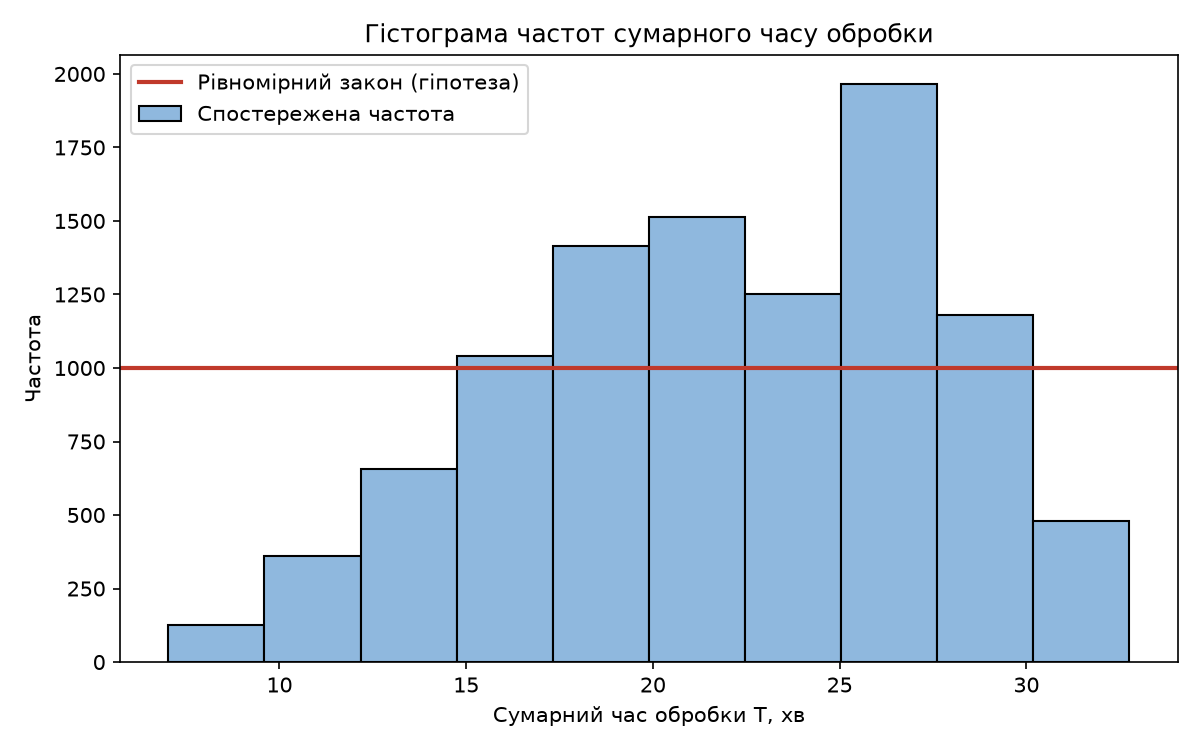
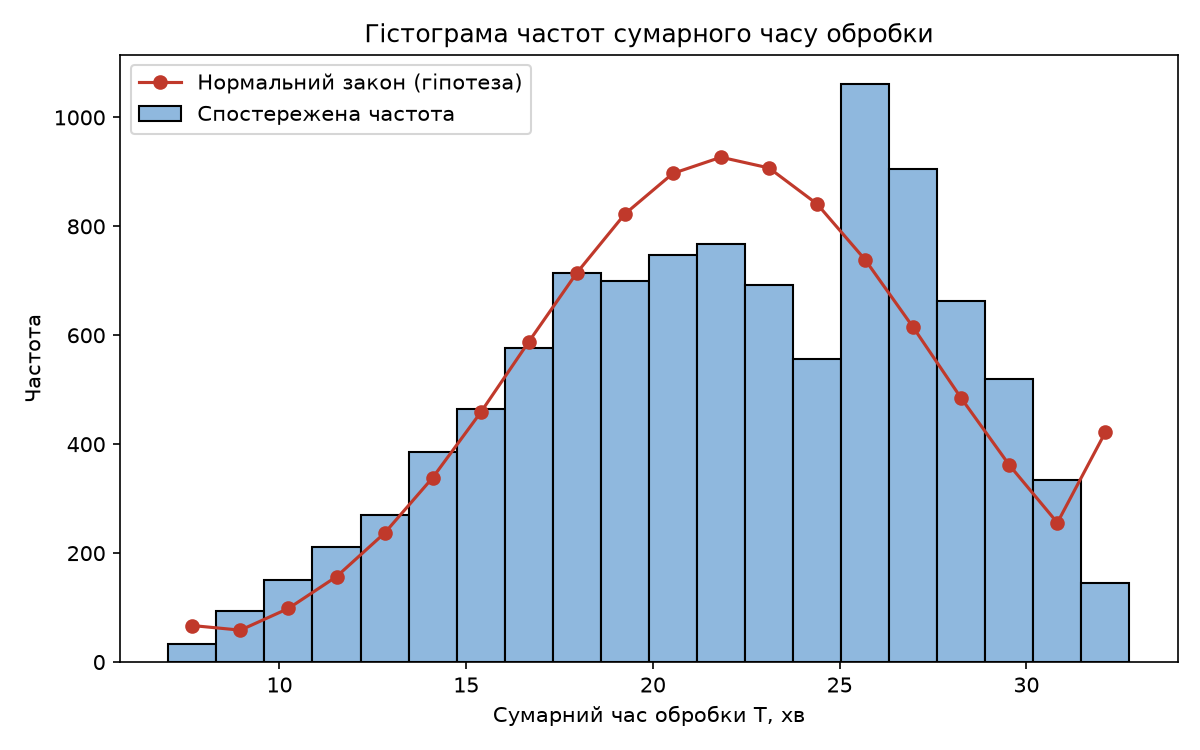
fix

diff --git a/verification.py b/verification.py
@@ -6,8 +6,8 @@ import main
 PROTOCOL_M = (1, 1)
 PROTOCOL_SEED = 10
 PROTOCOL_TIME = 150.0
-PROTOCOL_LINES = 50
-TIME = 20000.0
+PROTOCOL_EVENTS = 14
+TIME = 100000.0
 NAMES = {"Cementation": "Цементація", "Hardening": "Загартування"}
 ACTIONS = {
     "Exit": "вихід",
@@ -16,20 +16,26 @@ ACTIONS = {
 }
 
 PAIRS = [
+    ((10, 7), (10, 6)),
+    ((13, 7), (13, 6)),
+    ((10, 3), (10, 2)),
     ((10, 0), (10, 0)),
     ((15, 0), (15, 0)),
     ((8, 0), (8, 0)),
-    ((10, 3), (10, 2)),
-    ((10, 7), (10, 6)),
-    ((13, 7), (13, 6)),
 ]
 DEVICES = [1, 2, 3]
 
 
+def law(parameters):
+    d, s = parameters
+    return f"{d:g}" if s == 0 else f"unif({d:g}, {s:g})"
+
+
 def protocol(m1, m2, cement, harden, time_limit, seed):
-    log = []
+    records = []
     ids = {}
     gears = []
+    captured = {}
 
     def number(gear):
         if id(gear) not in ids:
@@ -37,7 +43,23 @@ def protocol(m1, m2, cement, harden, time_limit, seed):
             gears.append(gear)
         return ids[id(gear)]
 
+    def tick(value):
+        return "∞" if value == float("inf") else f"{value:.3f}"
+
+    def state():
+        create, p1, p2 = captured["elements"][:3]
+        parts = [f"t0 = {tick(create.tnext)}"]
+        for index, process in ((1, p1), (2, p2)):
+            busy = ",".join("1" if g is not None else "0" for g in process.channel_gear)
+            ends = ",".join(tick(e) for e in process.channel_end)
+            parts.append(
+                f"L{index} = {len(process.queue)}, K{index} = ({busy}), t{index} = ({ends})"
+            )
+        return "; ".join(parts)
+
     original = {
+        "init": simulation.Model.__init__,
+        "create": simulation.Create.out_act,
         "in_act": simulation.Process.in_act,
         "start": simulation.Process.start,
         "out_act": simulation.Process.out_act,
@@ -45,62 +67,65 @@ def protocol(m1, m2, cement, harden, time_limit, seed):
         "router": main.Router.__call__,
     }
 
+    def model_init(self, elements, observer=None):
+        original["init"](self, elements, observer)
+        captured["elements"] = elements
+
+    def create_out_act(self):
+        record = {"t": self.tcurr, "event": "надходження ззовні", "changes": []}
+        records.append(record)
+        original["create"](self)
+        record["state"] = state()
+
     def in_act(self, gear):
-        if self.name == "Cementation" and gear.stage == 0 and id(gear) not in ids:
-            log.append((self.tcurr, f"деталь {number(gear)} надходить ззовні"))
         original["in_act"](self, gear)
         if self.queue and self.queue[-1] is gear:
-            log.append(
-                (
-                    self.tcurr,
-                    f"деталь {number(gear)} стає в чергу СМО «{NAMES[self.name]}» (довжина черги {len(self.queue)})",
-                )
+            records[-1]["changes"].append(
+                f"деталь {number(gear)} стає в чергу СМО «{NAMES[self.name]}», довжина черги {len(self.queue)}"
             )
 
     def start(self, idx, gear):
         original["start"](self, idx, gear)
         duration = getattr(gear, self.key)
-        log.append(
-            (
-                self.tcurr,
-                f"деталь {number(gear)} починає обслуговування в СМО «{NAMES[self.name]}», пристрій {idx + 1}, "
-                f"тривалість {duration:.3f}, завершення о {self.tcurr + duration:.3f}",
-            )
+        records[-1]["changes"].append(
+            f"деталь {number(gear)} займає пристрій {idx + 1} СМО «{NAMES[self.name]}», "
+            f"тривалість {duration:.3f}, завершення о {self.tcurr + duration:.3f}"
         )
 
     def out_act(self):
+        mine = []
         for idx, end in enumerate(self.channel_end):
             if end == self.tcurr:
-                log.append(
-                    (
-                        self.tcurr,
-                        f"деталь {number(self.channel_gear[idx])} завершує обслуговування в СМО «{NAMES[self.name]}», пристрій {idx + 1}",
-                    )
-                )
+                gear = self.channel_gear[idx]
+                record = {
+                    "t": self.tcurr,
+                    "event": f"завершення обслуговування, СМО «{NAMES[self.name]}», пристрій {idx + 1}, деталь {number(gear)}",
+                    "changes": [],
+                }
+                records.append(record)
+                mine.append(record)
         original["out_act"](self)
+        for record in mine:
+            record["state"] = state()
 
-    def router(self, gear):
-        stage = gear.stage
-        target = original["router"](self, gear)
-        log.append(
-            (
-                self.process2.tcurr,
-                f"контроль деталі {number(gear)}: T = {gear.c:.3f} + {gear.h:.3f} = {gear.c + gear.h:.3f}, "
-                f"етап {stage} -> {ACTIONS[target.name]}",
-            )
+    def router(self, gear, process, idx):
+        total = process.channel_total[idx]
+        stage = process.channel_stage[idx]
+        target = original["router"](self, gear, process, idx)
+        records[-1]["changes"].append(
+            f"контроль деталі {number(gear)}: T = {total:.3f}, R = {stage} -> {ACTIONS[target.name]}"
         )
         return target
 
     def dispose(self, gear):
         original["dispose"](self, gear)
         total = gear.c + gear.h
-        log.append(
-            (
-                self.tcurr,
-                f"деталь {number(gear)} залишає систему, T = {total:.3f}, сорт {1 if total >= main.LOW else 2}",
-            )
+        records[-1]["changes"].append(
+            f"деталь {number(gear)} залишає систему, T = {total:.3f}, сорт {1 if total >= main.LOW else 2}"
         )
 
+    simulation.Model.__init__ = model_init
+    simulation.Create.out_act = create_out_act
     simulation.Process.in_act = in_act
     simulation.Process.start = start
     simulation.Process.out_act = out_act
@@ -109,28 +134,33 @@ def protocol(m1, m2, cement, harden, time_limit, seed):
     try:
         main.run(m1, m2, cement, harden, time_limit, seed)
     finally:
+        simulation.Model.__init__ = original["init"]
+        simulation.Create.out_act = original["create"]
         simulation.Process.in_act = original["in_act"]
         simulation.Process.start = original["start"]
         simulation.Process.out_act = original["out_act"]
         simulation.Dispose.in_act = original["dispose"]
         main.Router.__call__ = original["router"]
-    return log
+    return records
 
 
 def print_protocol():
     print("=============== ПРОТОКОЛ ПОДІЙ ===============")
     print(
-        f"вхід: цементація unif(10, 7), загартування unif(10, 6), надходження unif(10, 5), "
+        f"вхід: цементація {law((10, 7))}, загартування {law((10, 6))}, надходження {law((10, 5))}, "
         f"пристроїв: {PROTOCOL_M[0]} і {PROTOCOL_M[1]}, seed = {PROTOCOL_SEED}, час моделювання {PROTOCOL_TIME:.0f} хв"
     )
-    log = protocol(*PROTOCOL_M, (10, 7), (10, 6), PROTOCOL_TIME, PROTOCOL_SEED)
-    for t, text in log[:PROTOCOL_LINES]:
-        print(f"{t:8.3f}  {text}")
+    records = protocol(*PROTOCOL_M, (10, 7), (10, 6), PROTOCOL_TIME, PROTOCOL_SEED)
+    for number, record in enumerate(records[:PROTOCOL_EVENTS], 1):
+        print(f"\n{number}. t = {record['t']:.3f}, подія: {record['event']}")
+        for change in record["changes"]:
+            print(f"     {change}")
+        print(f"     стан: {record['state']}")
 
 
 def print_table():
     print("\n=============== ТАБЛИЦЯ ВЕРИФІКАЦІЇ ===============")
-    print(f"час моделювання {TIME:.0f} хв, надходження unif(10, 5) в усіх запусках")
+    print(f"час моделювання {TIME:.0f} хв, надходження {law((10, 5))} в усіх запусках")
     print(
         f"{'№':>3} {'цементація':>12} {'загартування':>13} {'m1':>3} {'m2':>3} "
         f"{'P(част.)':>9} {'P(повна)':>9} {'P(1 сорт)':>10} {'T сер.':>8} {'T σ':>8} {'у системі':>10}"
@@ -144,7 +174,7 @@ def print_table():
                 totals = result["totals"]
                 first_sort = sum(1 for t in totals if t >= main.LOW) / len(totals)
                 print(
-                    f"{number:>3} {'unif' + str(cement):>12} {'unif' + str(harden):>13} {m1:>3} {m2:>3} "
+                    f"{number:>3} {law(cement):>12} {law(harden):>13} {m1:>3} {m2:>3} "
                     f"{result['partial'] / result['first']:>9.4f} {result['full'] / result['first']:>9.4f} "
                     f"{first_sort:>10.4f} {mean(totals):>8.3f} {stdev(totals):>8.3f} {result['arrived'] - len(totals):>10}"
                 )

diff --git a/main.py b/main.py
@@ -1,4 +1,3 @@
-import math
 import random
 from statistics import NormalDist, mean, stdev
 
@@ -17,7 +16,8 @@ HARDEN = (10, 6)
 TIME = 100000.0
 LOW = 20.0
 HIGH = 25.0
-BINS = 10
+BINS = 20
+CHI2_CRITICAL = 27.59
 SEED = 1
 PLOT_FILE = "histogram_T.png"
 PLOT_FILE_MEASURE = "histogram_T_measure.png"
@@ -41,15 +41,16 @@ class Router:
     def blocked_full(self, total, stage):
         return not (stage == 0 and total < LOW)
 
-    def __call__(self, gear):
-        total = gear.c + gear.h
-        if not self.blocked_exit(total, gear.stage):
+    def __call__(self, gear, process, idx):
+        total = process.channel_total[idx]
+        stage = process.channel_stage[idx]
+        if not self.blocked_exit(total, stage):
             target = self.dispose
-        elif not self.blocked_partial(total, gear.stage):
+        elif not self.blocked_partial(total, stage):
             target = self.process2
         else:
             target = self.process1
-        if gear.stage == 0:
+        if stage == 0:
             self.first += 1
             if target is self.process2:
                 self.partial += 1
@@ -83,19 +84,21 @@ def run(m1, m2, cement, harden, time_limit, seed, observer=None):
     }
 
 
-def chi_square_uniform(values):
+def chi_square_normal(values):
     n = len(values)
+    dist = NormalDist(mean(values), stdev(values))
     low, high = min(values), max(values)
     width = (high - low) / BINS
     counts = [0] * BINS
     for v in values:
         counts[min(BINS - 1, int((v - low) / width))] += 1
-    expected = n / BINS
-    chi2 = sum((o - expected) ** 2 / expected for o in counts)
-    dof = BINS - 1 - 2
-    z = NormalDist().inv_cdf(0.95)
-    critical = dof * (1 - 2 / (9 * dof) + z * math.sqrt(2 / (9 * dof))) ** 3
-    return low, high, width, counts, expected, chi2, dof, critical
+    expected = []
+    for i in range(BINS):
+        left = 0.0 if i == 0 else dist.cdf(low + i * width)
+        right = 1.0 if i == BINS - 1 else dist.cdf(low + (i + 1) * width)
+        expected.append(n * (right - left))
+    chi2 = sum((o - e) ** 2 / e for o, e in zip(counts, expected))
+    return low, width, counts, expected, chi2, BINS - 3
 
 
 def plot_histogram(low, width, counts, expected, path):
@@ -109,8 +112,8 @@ def plot_histogram(low, width, counts, expected, path):
         color="#8fb8de",
         label="Спостережена частота",
     )
-    plt.axhline(
-        expected, color="#c0392b", linewidth=2, label="Рівномірний закон (гіпотеза)"
+    plt.plot(
+        centers, expected, "o-", color="#c0392b", label="Нормальний закон (гіпотеза)"
     )
     plt.xlabel("Сумарний час обробки T, хв")
     plt.ylabel("Частота")
@@ -144,18 +147,20 @@ def characteristics(cement, harden, path):
     print(f"перший сорт не менше 90%      = {yes_no(first_sort >= 0.9)}")
     print(f"T середнє                     = {mean(totals):.4f}")
     print(f"T середнє квадратичне відхил. = {stdev(totals):.4f}")
-    low, high, width, counts, expected, chi2, dof, critical = chi_square_uniform(totals)
-    print(f"гіпотеза: рівномірний закон на [{low:.2f}; {high:.2f}], {BINS} інтервалів")
+    low, width, counts, expected, chi2, dof = chi_square_normal(totals)
     print(
-        f"хі-квадрат = {chi2:.2f}, ступенів свободи = {dof}, критичне (0.05) = {critical:.2f}"
+        f"гіпотеза: нормальний закон з μ = {mean(totals):.2f}, σ = {stdev(totals):.2f}, {BINS} інтервалів"
     )
-    print(f"гіпотезу прийнято             = {yes_no(chi2 < critical)}")
+    print(
+        f"хі-квадрат = {chi2:.2f}, ступенів свободи = {dof}, критичне (0.05) = {CHI2_CRITICAL}"
+    )
+    print(f"гіпотезу прийнято             = {yes_no(chi2 < CHI2_CRITICAL)}")
     plot_histogram(low, width, counts, expected, path)
     print(f"гістограму збережено у файл {path}")
 
 
 if __name__ == "__main__":
-    print("=============== 1: ХАРАКТЕРИСТИКИ МОДЕЛІ ===============")
+    print("=============== БЛОК 1: ХАРАКТЕРИСТИКИ МОДЕЛІ ===============")
     characteristics(CEMENT, HARDEN, PLOT_FILE)
     new_cement, new_harden = experiment.research(run, CEMENT, HARDEN, LOW)
     print("\n[4] Характеристики системи із заходом")

diff --git a/simulation.py b/simulation.py
@@ -52,6 +52,8 @@ class Process(Element):
         self.key = key
         self.channel_end = [float("inf")] * channels
         self.channel_gear = [None] * channels
+        self.channel_total = [0.0] * channels
+        self.channel_stage = [0] * channels
         self.queue = deque()
         self.route = None
         self.busy_time = 0.0
@@ -67,6 +69,8 @@ class Process(Element):
         setattr(gear, self.key, t)
         self.channel_end[idx] = self.tcurr + t
         self.channel_gear[idx] = gear
+        self.channel_total[idx] = gear.c + gear.h
+        self.channel_stage[idx] = gear.stage
         self.tnext = min(self.channel_end)
 
     def in_act(self, gear):
@@ -80,11 +84,13 @@ class Process(Element):
         for idx in range(len(self.channel_end)):
             if self.channel_end[idx] == self.tcurr:
                 finished = self.channel_gear[idx]
+                target = (
+                    self.route(finished, self, idx) if self.route else self.next_element
+                )
                 self.channel_end[idx] = float("inf")
                 self.channel_gear[idx] = None
                 if self.queue:
                     self.start(idx, self.queue.popleft())
-                target = self.route(finished) if self.route else self.next_element
                 target.in_act(finished)
         self.tnext = min(self.channel_end)
 
